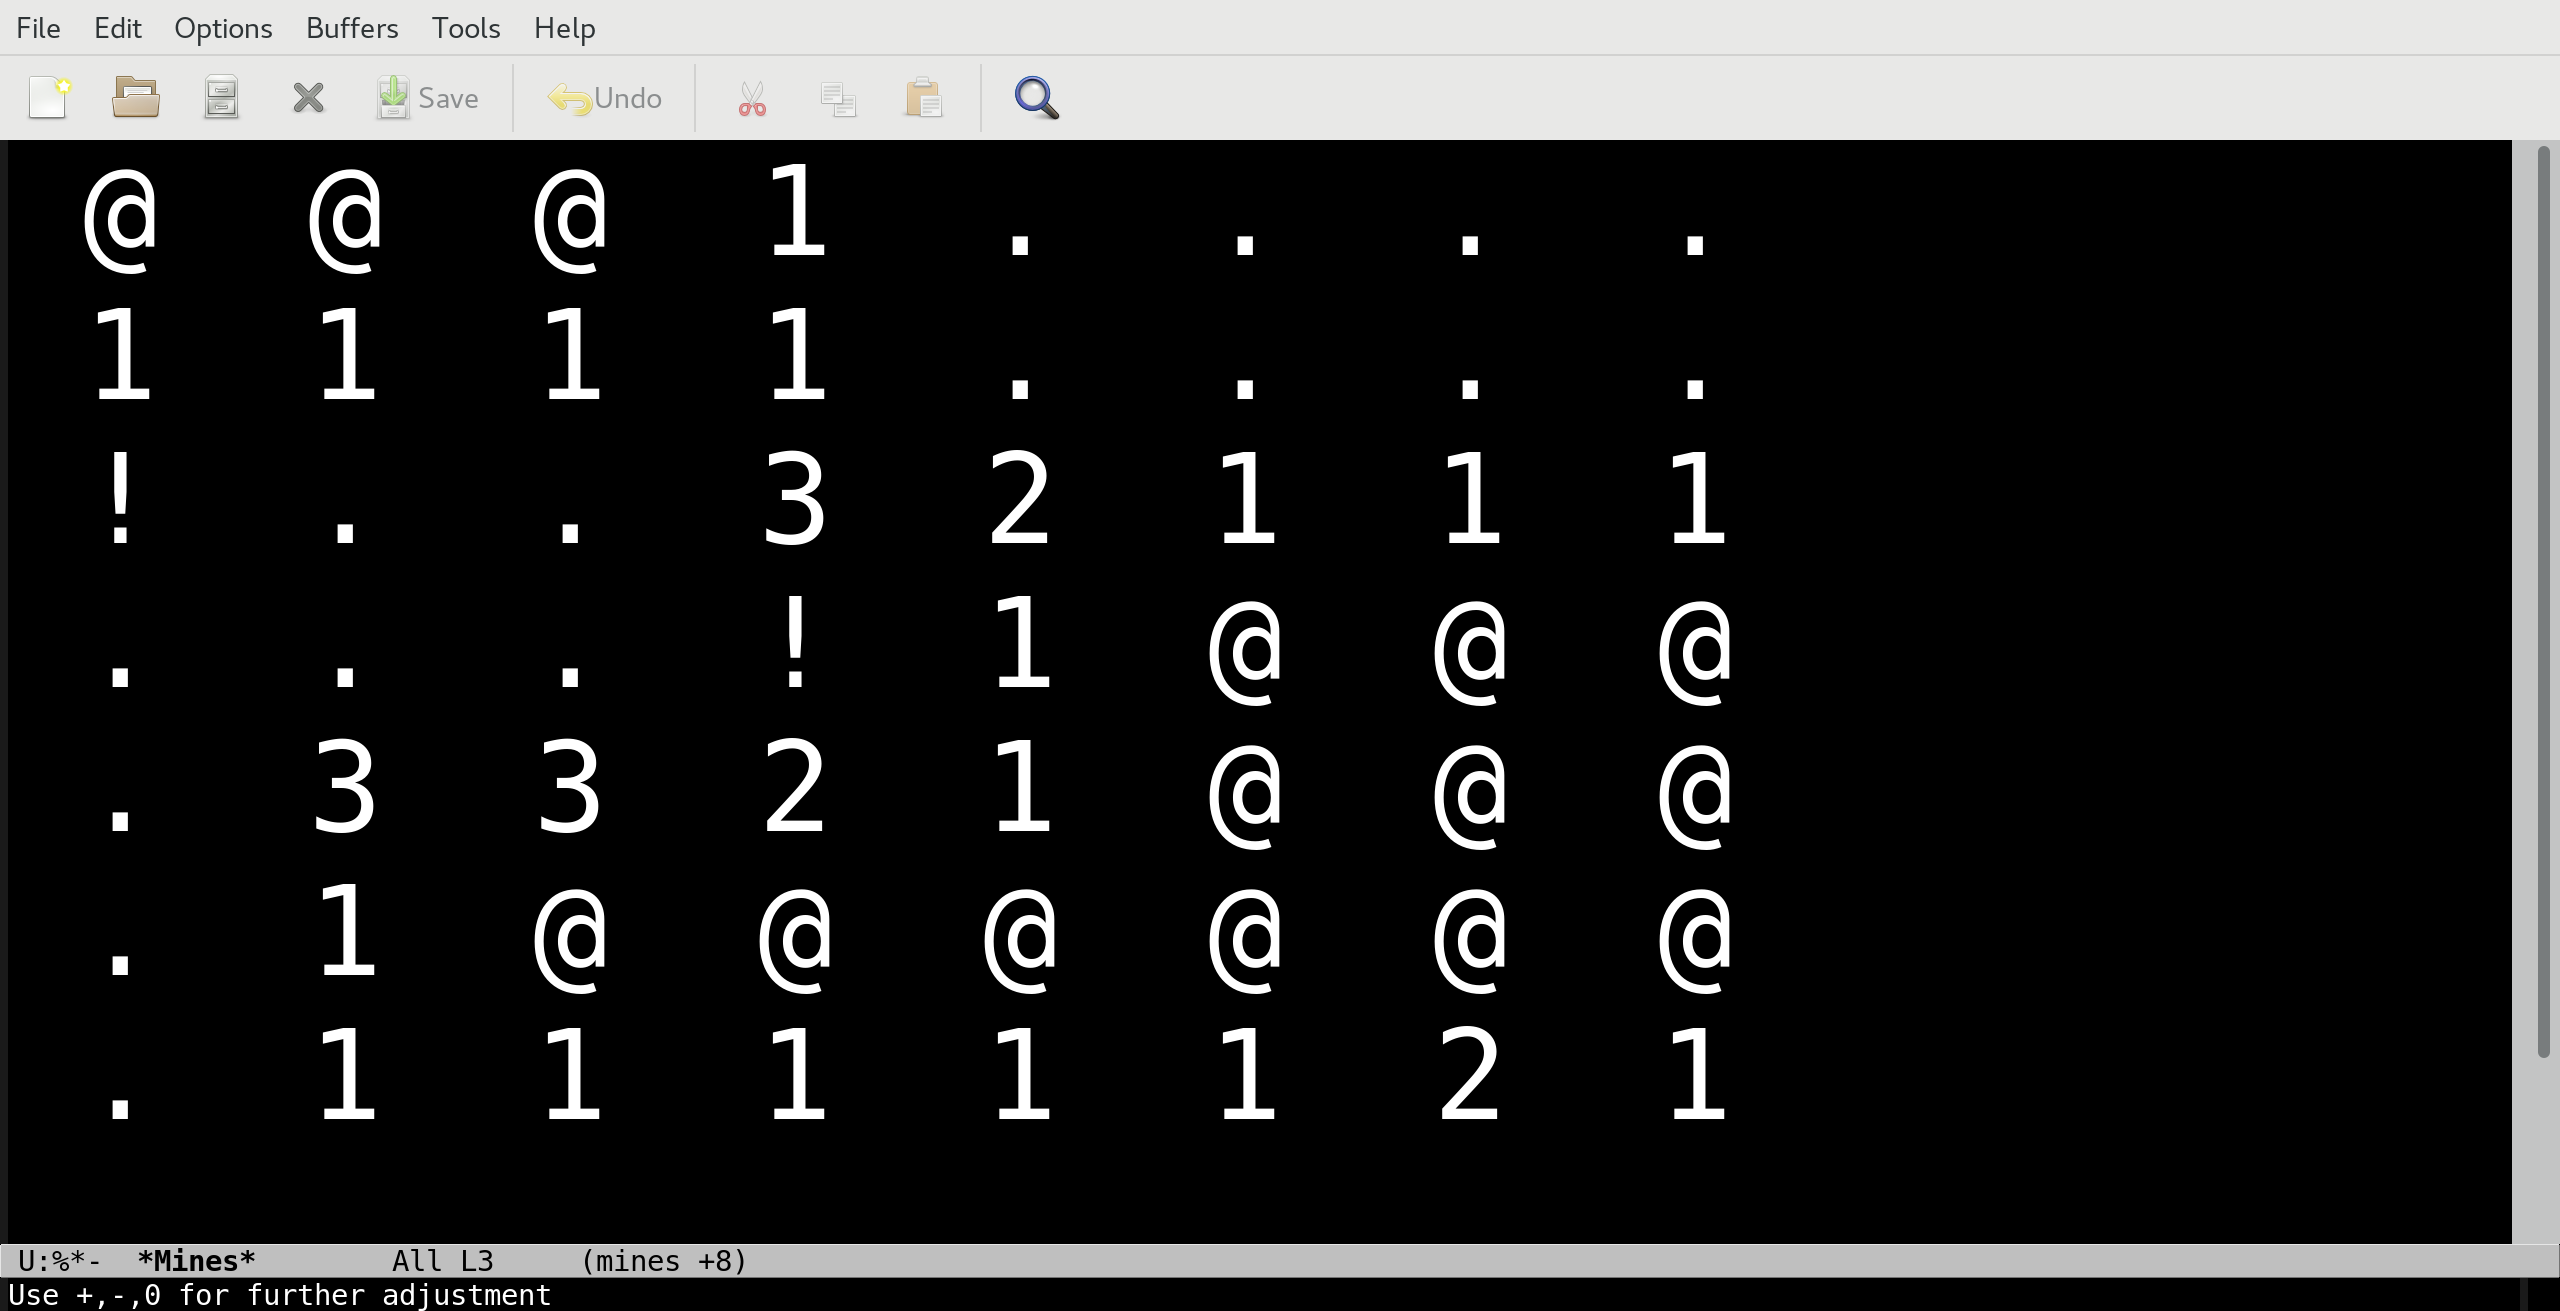
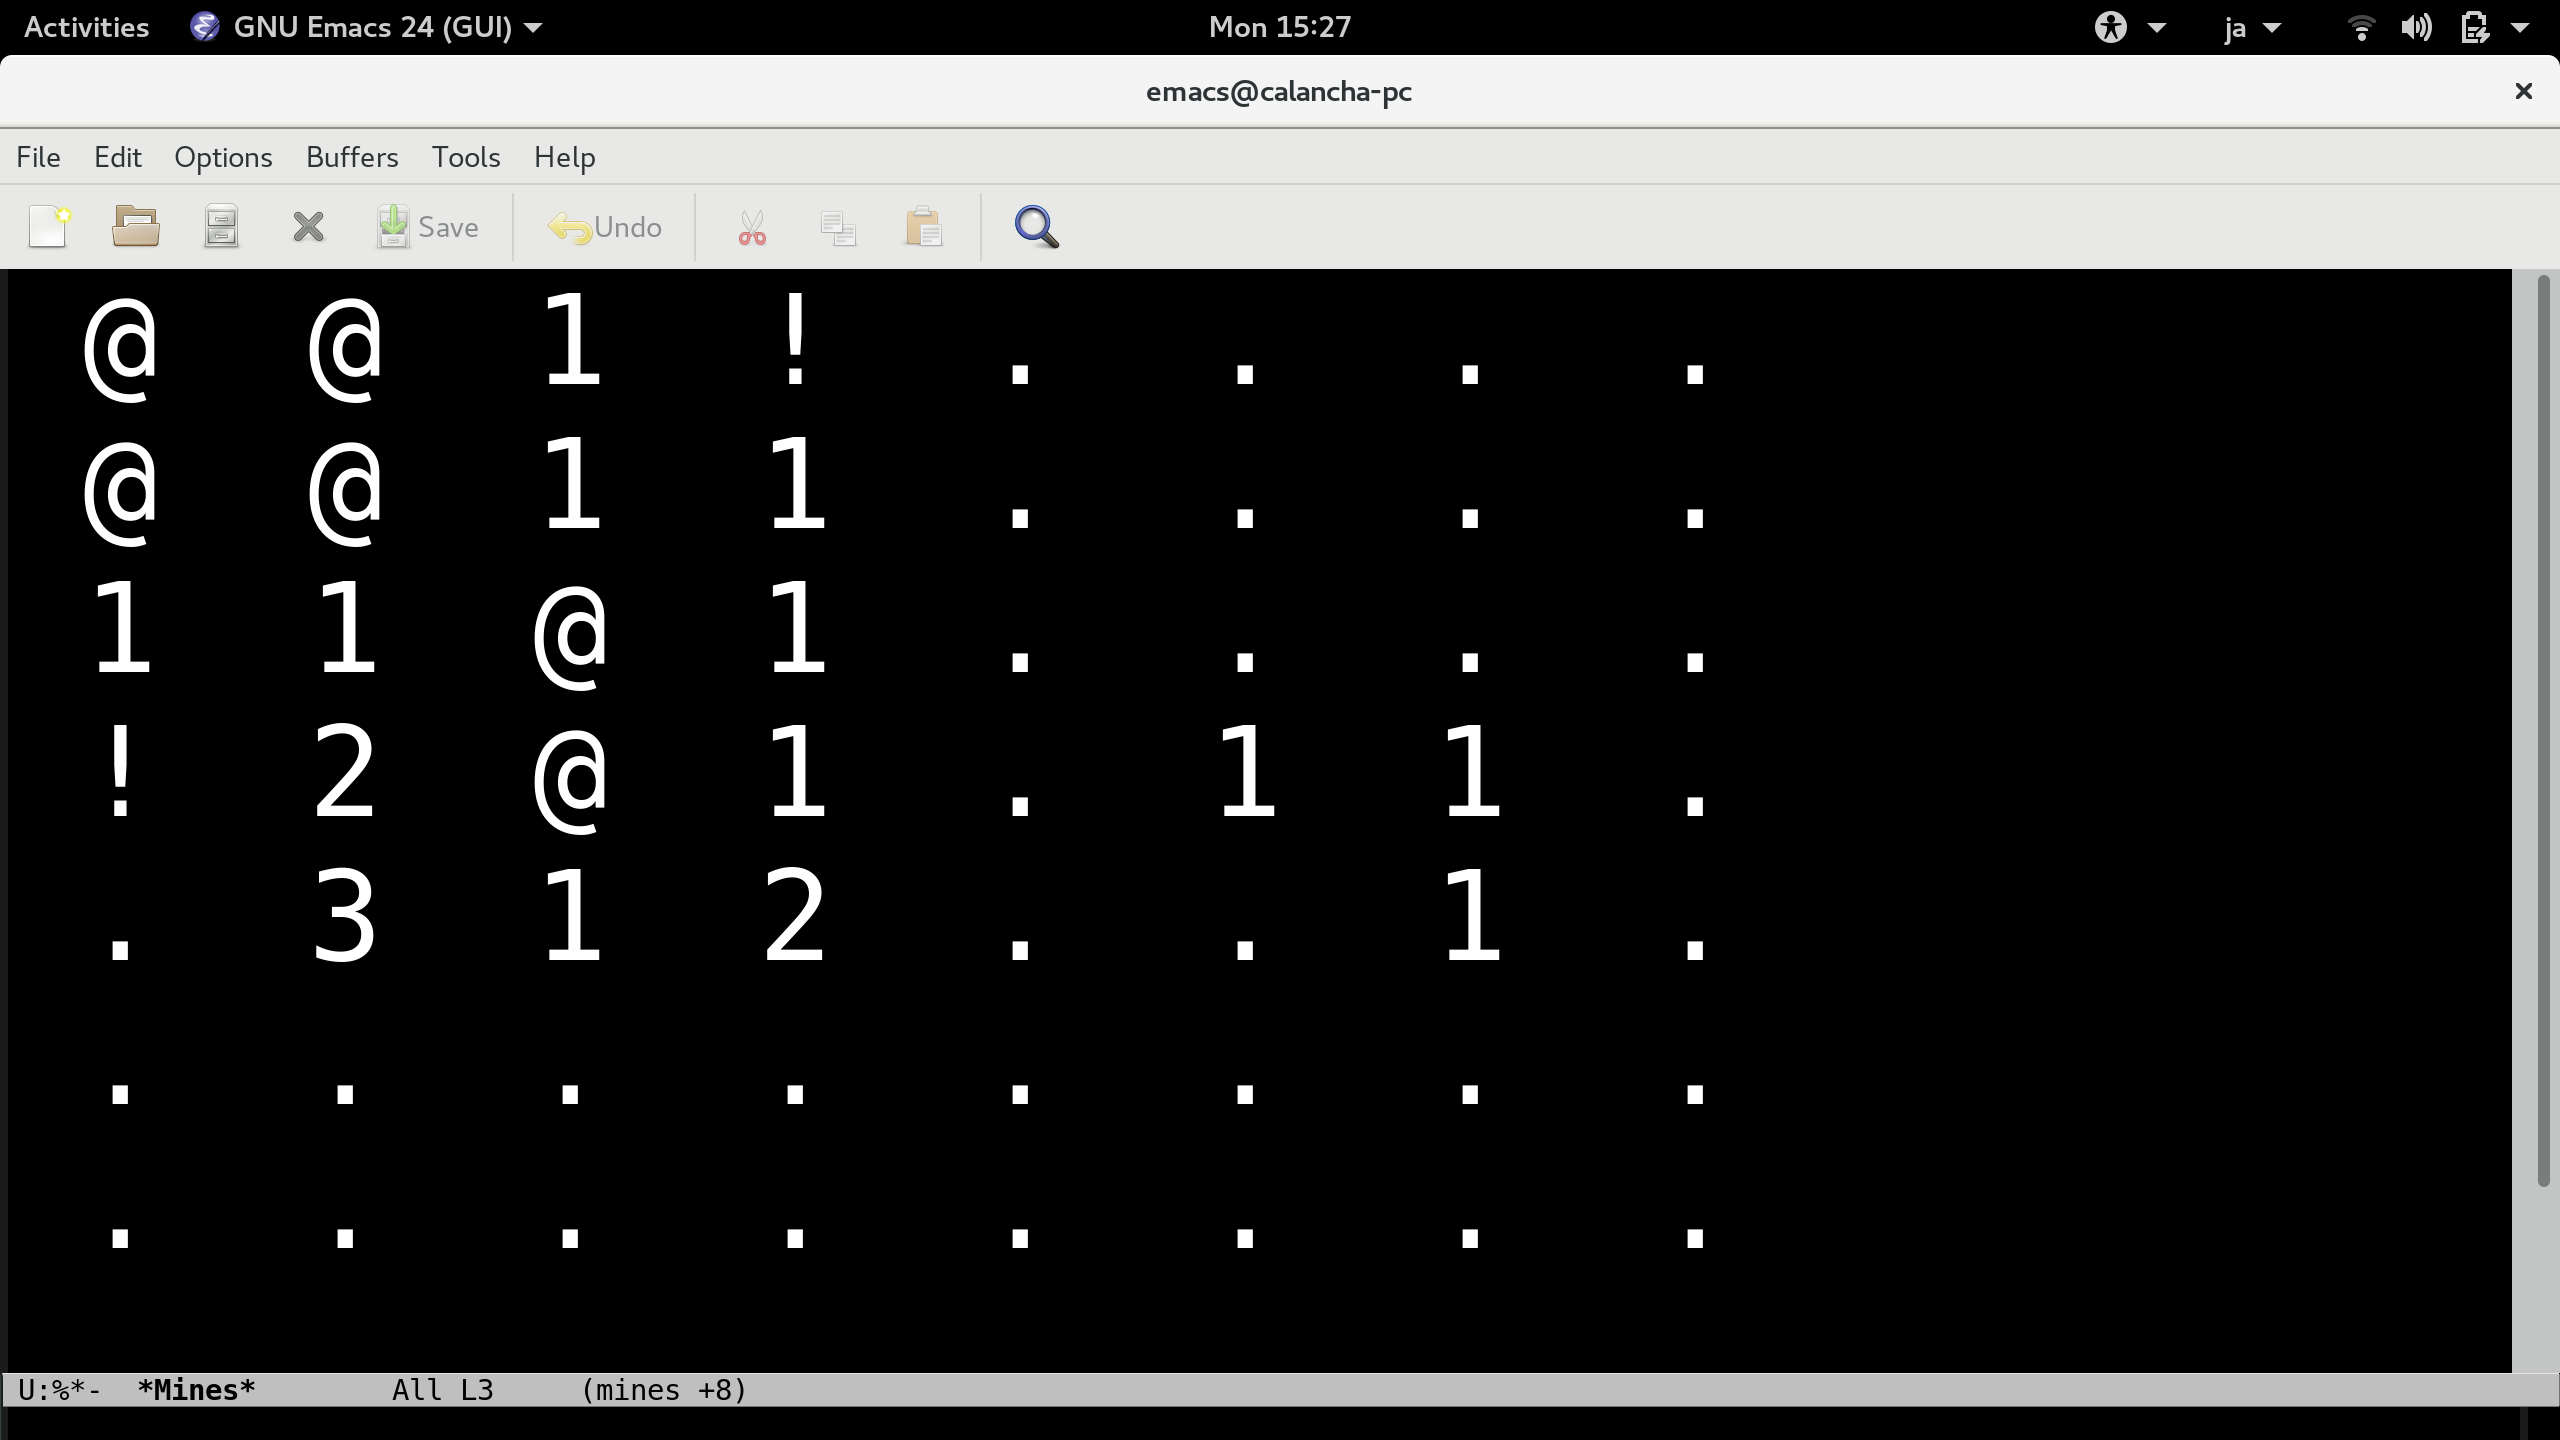
* Readme: Add more screenshots

diff --git a/README.md b/README.md
@@ -28,4 +28,8 @@ when the only uncovered cells equals the number of hidden mines.
 
 ### Screenshots
 
+minesweeper screenshot:
 ![ScreenShot](/screenshots/screenshot-minesweeper.png)
+
+Game over screenshot:
+![ScreenShot](/screenshots/screenshot-minesweeper-gameover.png)
